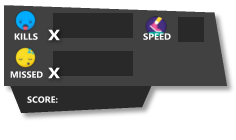
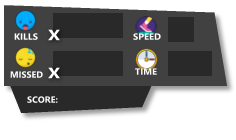
Small bug fixes, added time to status bar.

Changed region(s): [[0.5636, 0.1143, 0.7415, 0.2857], [0.5636, 0.3429, 0.6822, 0.5429]]

diff --git a/app.py b/app.py
@@ -19,11 +19,11 @@ font = pygame.font.Font(os.path.join(globals.data_dir, 'fonts/LeelawUI.ttf'), 16
 fontSmall = pygame.font.Font(os.path.join(globals.data_dir, 'fonts/LeelUIsl.ttf'), 14)
 fontElcwoodBig = pygame.font.Font(os.path.join(globals.data_dir, 'fonts/elkwood.ttf'), 68)
 fontElcwoodSmall = pygame.font.Font(os.path.join(globals.data_dir, 'fonts/elkwood.ttf'), 14)
-fontElcwoodMedium = pygame.font.Font(os.path.join(globals.data_dir, 'fonts/elkwood.ttf'), 26)
+fontElcwoodMedium = pygame.font.Font(os.path.join(globals.data_dir, 'fonts/elkwood.ttf'), 30)
 
 # Game window
-globals.winWidth = 1920
-globals.winHeight = 1080
+globals.winWidth = 1366
+globals.winHeight = 768
 fullscreen = True
 winBackground = colors.black
 win = game.window(globals.winWidth, globals.winHeight, pygame.FULLSCREEN, winBackground, "Silent City")
@@ -183,11 +183,11 @@ while run:
     if room == 'main':
         # Init room
         if globals.roomInit == False:
+            # Init power-ups
+            pwrBullets = powerup.BulletPlus()
+            pwrBullets.putOutOfScreen()
             # Restart steps for room
             globals.steps = 1
-            # Powerups
-            pwrBullets = powerup.BulletPlus()
-
             globals.roomInit = True
 
         # POWERUPS
@@ -196,9 +196,12 @@ while run:
             ### CREATE AFTER {globals.timerPowerUp} SECONDS ###
             pwrSprites.add(pwrBullets)
             pwrBullets.appeared = globals.steps # Last time powerup appeared
+            pwrBullets.rect.x = random.randint(1, globals.winWidth - 140)
+            pwrBullets.rect.y = random.randint(100, globals.winHeight - 140)
         if globals.steps % (pwrBullets.appeared + (globals.second * globals.timerPowerUpDestroy)) == 0:
             ### DESTROY AFTER {globals.timerPowerUpDestroy} SECONDS ###
             pwrBullets.kill()
+            pwrBullets.putOutOfScreen()
 
         # Check if left click and we still got bullets
         if pressed1 and gun.bulletsLeft > 0:
@@ -206,14 +209,15 @@ while run:
 
                 # Kill enemy
                 if pygame.sprite.collide_mask(foe, cursor):
+                    # Make blood
+                    blood = enemy.Blood()
+                    sprites.add(blood)
                     # Show score for killed enemy
-                    globals.enemyScore = [globals.scorePerKill * globals.level, foe.rect.x, foe.rect.y, int(time.time())]
+                    globals.enemyScore = [globals.scorePerKill * globals.level, blood.rect.x, blood.rect.y, int(time.time())]
                     globals.enemyScorePos = 0
                     globals.enemyScorePosChange = True
                     # Play die sound
                     random.choice(sndDie).play()
-                    blood = enemy.Blood(foe.rect.x, foe.rect.y)
-                    sprites.add(blood)
                     # Remove enemy
                     foe.kill()
                     # Make a new one
@@ -234,16 +238,14 @@ while run:
                     gun.bulletsLeft += 1 + globals.pwrBulletsAmount
                     # Animate destroy
                     pwrBulletsKill = powerup.BulletPlusGone(pwrBullets.rect.x, pwrBullets.rect.y)
-                    pwrSprites.add(pwrBulletsKill)
+                    topSprites.add(pwrBulletsKill)
                     # Destroy powerup icon
                     pwrBullets.kill()
                     # Draw power-up text
                     globals.powerText = '+' + str(globals.pwrBulletsAmount) + ' bullets!'
                     globals.drawPowerText = True
                     globals.drawPowerTextStart = globals.steps
-                    # Change x,y of power up
-                    pwrBullets.rect.x = random.randint(1, globals.winWidth - 140)
-                    pwrBullets.rect.y = random.randint(100, globals.winHeight - 140)
+                    pwrBullets.putOutOfScreen()
 
         # Shooting
         if pressed1 and isShooting == False:
@@ -281,7 +283,7 @@ while run:
                 gun.rect.y -= 3
             shotOnce = False
 
-        if pressed3 and gun.bulletsLeft == 0 and isReloading == False:
+        if pressed3 and not pressed1 and gun.bulletsLeft == 0 and isReloading == False:
             sndReload.play()
             gun.bulletsLeft = globals.gunMaxBullets
 
@@ -319,7 +321,7 @@ while run:
         if globals.drawPowerTextStart != 0 and globals.steps % (globals.drawPowerTextStart + (globals.second*3)) == 0:
             globals.drawPowerText = False
 
-        # Render screen
+        ### RENDER SCREEN ###
         win.blit(bg, (0, 0))
         game.drawStars(win)
         sprites.update()
@@ -337,9 +339,12 @@ while run:
             globals.enemyScore[3])
         topSprites.draw(win)
         if globals.drawPowerText == True:
-            game.drawPowerUpText(win, fontElcwoodMedium, globals.powerText, 18, globals.winHeight - 64)
-        game.drawSeconds(win, font, 68, 142)
+            game.drawPowerUpText(win, fontElcwoodMedium, globals.powerText, 18, globals.winHeight - 48)
+        if globals.debug == True:
+            game.drawSeconds(win, font, 68, 142)
+        game.drawTime(win, font, 182, 63)
         pygame.display.update()
+        ### END RENDER SCREEN ###
 
     # Game over screen
     if room == 'game_over':

diff --git a/resources/game.py b/resources/game.py
@@ -71,7 +71,7 @@ def drawStatusbar(screen, statusBarImage, font, fontSmall):
     if globals.level < 10:
         level = '0' + level
     fontlevel = font.render(str(level), True, colors.white)
-    screen.blit(fontlevel, (194, 29))
+    screen.blit(fontlevel, (184, 29))
 
     # Draw kills
     fontKills = font.render(str(globals.kills), True, colors.white)
@@ -141,9 +141,43 @@ def drawPowerUpText(screen, font, text, x, y):
     textRect.y = y
     screen.blit(font, textRect)
 
-# Draw seconds (for debuging purpose)
+# Draw time
+def drawTime(screen, font, x, y):
+    # Calculate Time
+    totalSeconds = int(globals.steps/60)
+    minutes = int(totalSeconds / 60)
+    seconds = int(totalSeconds - (minutes * 60))
+
+    # Add 0
+    if seconds < 10:
+        drawSec = '0' + str(seconds)
+    else:
+        drawSec = str(seconds)
+    if minutes < 10:
+        drawMin = '0' + str(minutes)
+    else:
+        drawMin = str(minutes)
+
+    # Init font
+    font = font.render(str(drawMin) + ':' + str(drawSec), True, colors.white)
+
+    # Position
+    textRect = font.get_rect()
+    textRect.x = x
+    textRect.y = y
+
+    # Draw
+    screen.blit(font, textRect)
+
+# Draw seconds (for debugging purpose)
 def drawSeconds(screen, font, x, y):
     font = font.render('Timer: ' + str(int(globals.steps/60)), True, colors.white)
+    textRect = font.get_rect(center=(x, y))
+    screen.blit(font, textRect)
+
+# Draw debugger (for debugging purpose)
+def drawDebugger(screen, font, x, y, arg1 = None, arg2 = None):
+    font = font.render(arg1 + ' ' + arg2, True, colors.white)
     textRect = font.get_rect(center=(x, y))
     screen.blit(font, textRect)
 

diff --git a/resources/classes/enemy.py b/resources/classes/enemy.py
@@ -23,7 +23,10 @@ class Enemy(pygame.sprite.Sprite):
 		self.rect = self.image.get_rect()
 
 		# Speed
-		self.speed = 5 + globals.level
+		if globals.debug == False:
+			self.speed = 5 + globals.level
+		else:
+			globals.speed = 0
 
 		# Create mask
 		self.mask = pygame.mask.from_surface(self.image)
@@ -62,7 +65,7 @@ class Blood(pygame.sprite.Sprite):
 	frames = []
 
 	# Constructor
-	def __init__(self, x, y):
+	def __init__(self, x = None, y = None):
 		# Counter
 		self.steps = 0
 
@@ -84,8 +87,8 @@ class Blood(pygame.sprite.Sprite):
 
 		# Position
 		mousePos = pygame.mouse.get_pos()
-		self.rect.x = x #mousePos[0] - 79
-		self.rect.y = y #mousePos[1] - 115
+		self.rect.x = mousePos[0] - 79
+		self.rect.y = mousePos[1] - 115
 
 	def update(self):
 		# ANIMATE AND KILL AFTER ANIMATION

diff --git a/resources/classes/powerup.py b/resources/classes/powerup.py
@@ -27,6 +27,10 @@ class BulletPlus(pygame.sprite.Sprite):
 		# Place on screen
 		self.rect.center = (random.randint(1, globals.winWidth - 140), random.randint(100, globals.winHeight - 140))
 
+	def putOutOfScreen(self):
+		self.rect.x = -100
+		self.rect.y = -100
+
 class BulletPlusGone(pygame.sprite.Sprite):
 	frames = []
 
@@ -49,7 +53,6 @@ class BulletPlusGone(pygame.sprite.Sprite):
 		self.rect = self.image.get_rect()
 
 		# Position
-		mousePos = pygame.mouse.get_pos()
 		self.rect.x = x
 		self.rect.y = y
 

diff --git a/globals.py b/globals.py
@@ -17,6 +17,9 @@ data_dir = os.path.join(main_dir, 'data')
 winWidth = 1366
 winHeight = 768
 
+# Debug Mode
+debug = False
+
 # Score & stats
 kills = 0
 score = 0
@@ -38,7 +41,7 @@ enemyScorePosChange = False
 
 # Timers
 timerPowerUp = 30 # How many seconds to create a new power up
-timerPowerUpDestroy = 5 # How many seconds a power up stays on screen
+timerPowerUpDestroy = 3 # How many seconds a power up stays on screen
 
 # Maximum bullets
 gunMaxBullets = 10
